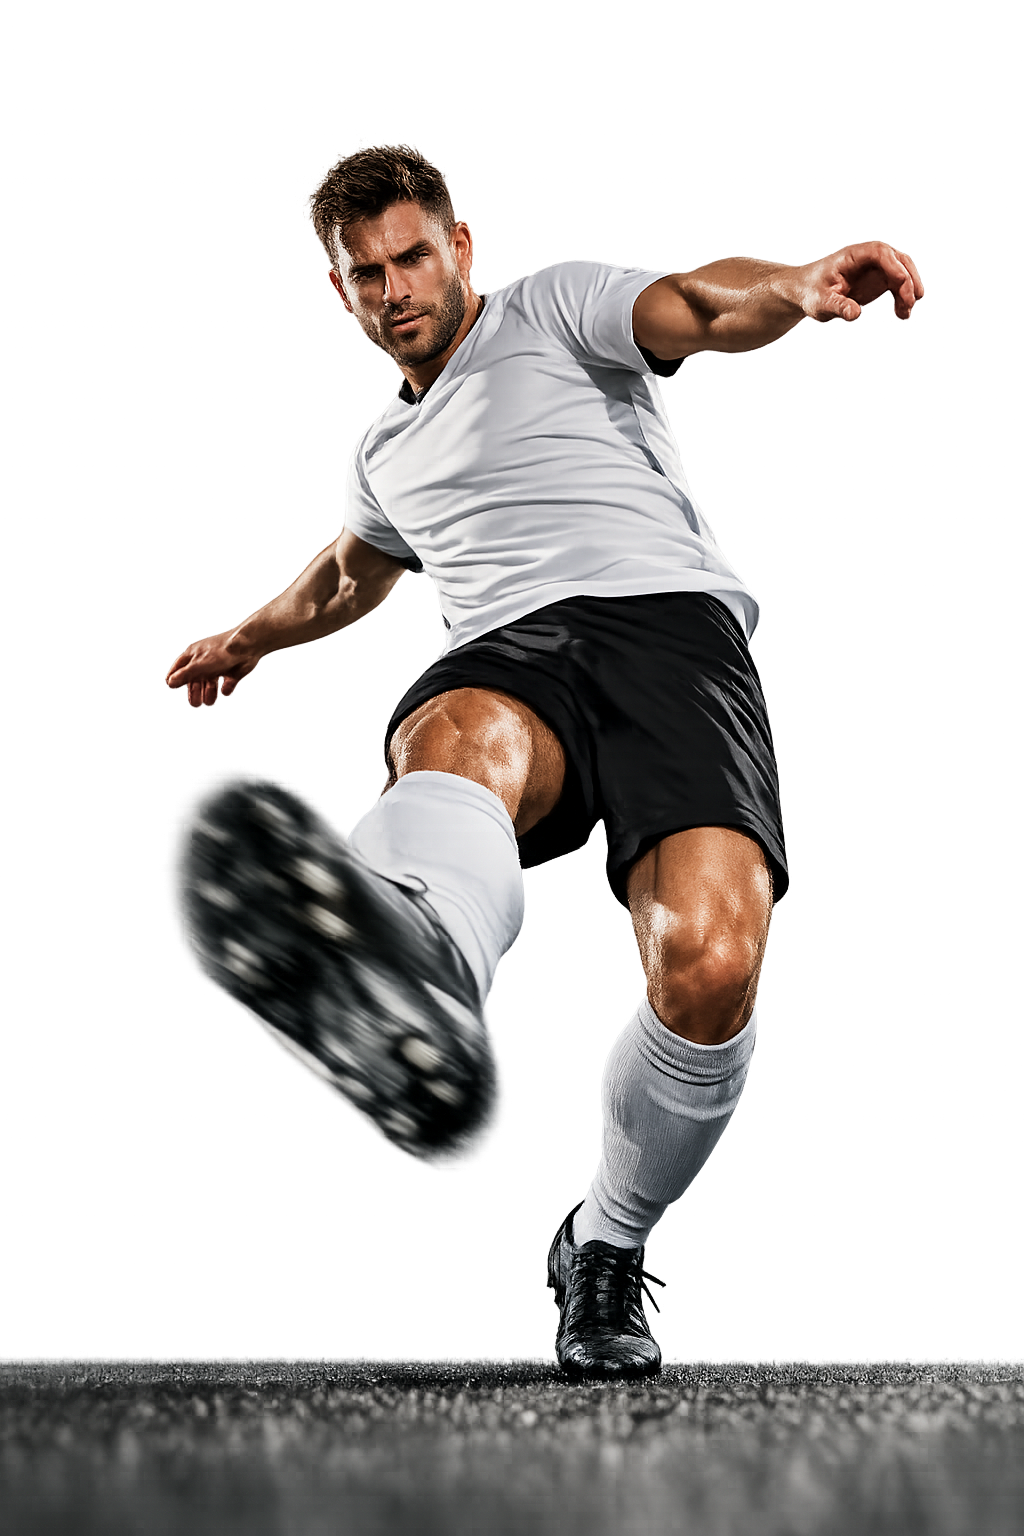
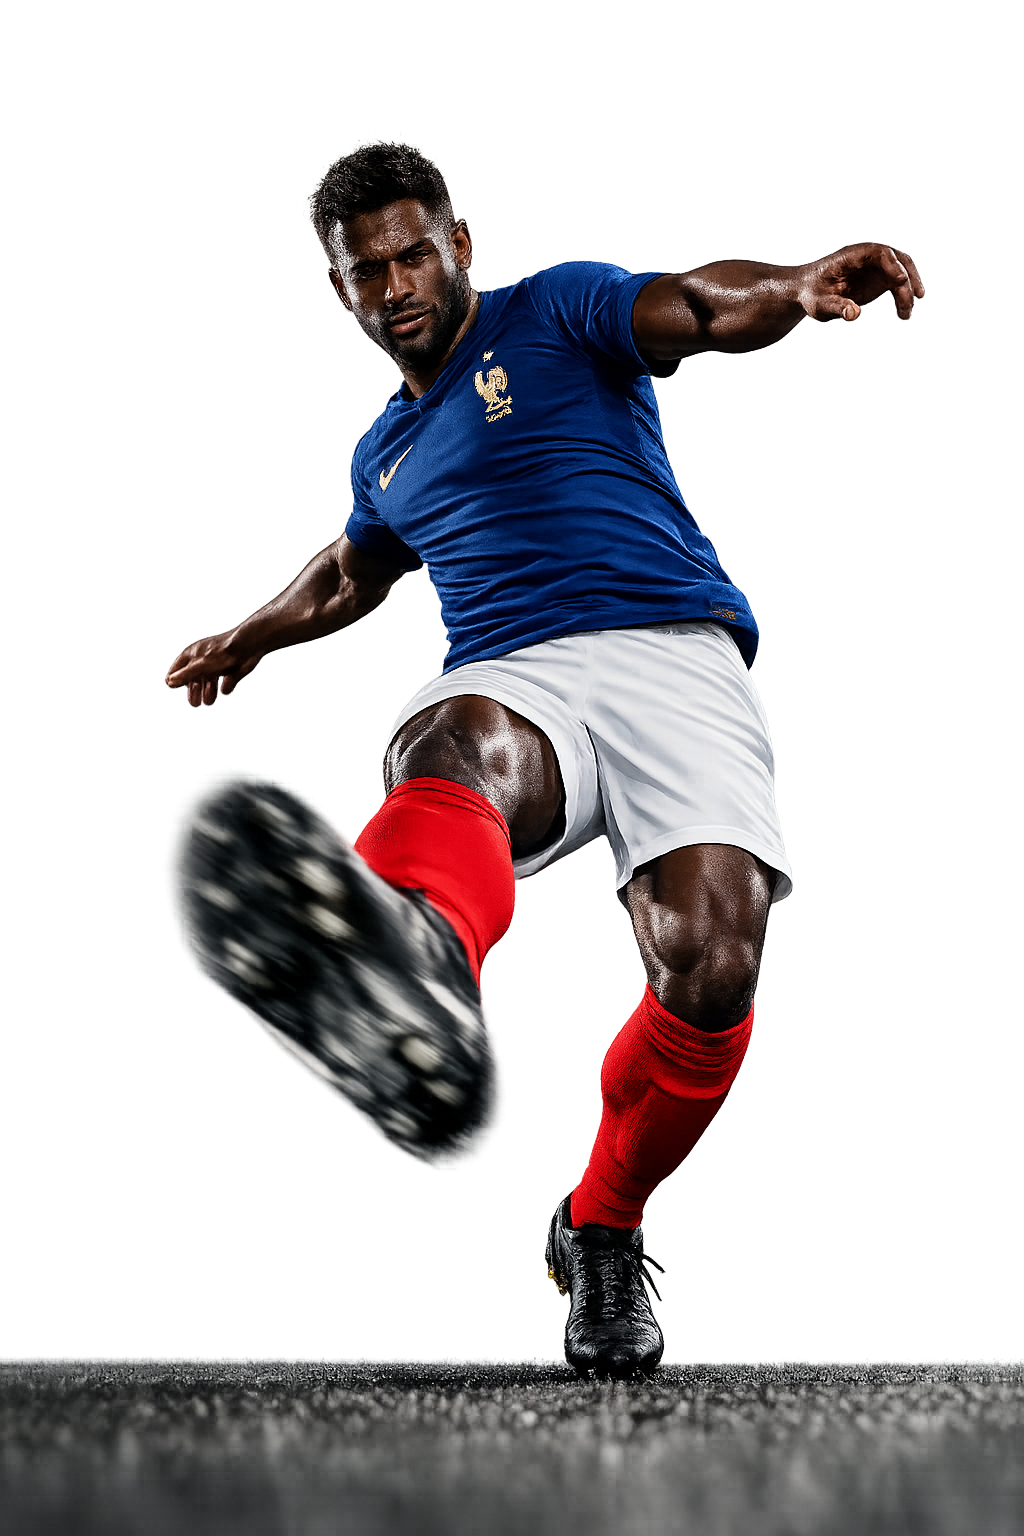
Swap in new striker photo + lifelike purple ball on the intro splash
- Replace the striker with the new France-kit player photo.
- Replace the vector ball with a photorealistic purple soccer ball image.
  Its source PNG baked transparency into a checkerboard, so the ball is
  clipped to its circle (rotation-invariant — still spins as it flies).

diff --git a/src/components/effects/IntroSplash.tsx b/src/components/effects/IntroSplash.tsx
@@ -44,6 +44,9 @@ export function IntroSplash() {
           transform-origin:50% 100%;animation:wciStriker 3s cubic-bezier(.2,.7,.3,1) forwards;
           -webkit-user-drag:none;user-select:none;}
         .wci-ball{position:absolute;left:50%;top:50%;width:15vmin;height:15vmin;will-change:transform,opacity;
+          /* the source PNG baked its transparency into a checkerboard, so clip to
+             the ball's circle (rotation-invariant, so it still spins) */
+          clip-path:circle(39% at 50% 50%);
           animation:wciBall 3s cubic-bezier(.5,.02,.6,1) forwards;
           filter:drop-shadow(0 0 28px rgba(86,25,143,.5));}
         .wci-flash{position:absolute;inset:0;opacity:0;
@@ -75,25 +78,8 @@ export function IntroSplash() {
       <img className="wci-striker" src="/intro/striker.png" alt="" aria-hidden="true" decoding="async" />
 
       {/* Purple ball off the boot, straight at the camera */}
-      <svg className="wci-ball" viewBox="0 0 100 100" aria-hidden="true">
-        <defs>
-          <radialGradient id="wciBallG" cx="38%" cy="34%" r="72%">
-            <stop offset="0%" stopColor="#cda6ff" />
-            <stop offset="44%" stopColor="#9d3df0" />
-            <stop offset="100%" stopColor="#56198f" />
-          </radialGradient>
-        </defs>
-        <circle cx="50" cy="50" r="48" fill="url(#wciBallG)" stroke="#34115e" strokeWidth="2" />
-        <polygon points="50,29 65,40 59,58 41,58 35,40" fill="#280d49" />
-        <g stroke="#280d49" strokeWidth="2.6" fill="none" strokeLinejoin="round">
-          <path d="M50 29 L50 10" />
-          <path d="M65 40 L84 33" />
-          <path d="M59 58 L71 74" />
-          <path d="M41 58 L29 74" />
-          <path d="M35 40 L16 33" />
-        </g>
-        <ellipse cx="37" cy="33" rx="12" ry="8" fill="#ffffff" opacity="0.22" />
-      </svg>
+      {/* eslint-disable-next-line @next/next/no-img-element */}
+      <img className="wci-ball" src="/intro/ball.png" alt="" aria-hidden="true" decoding="async" />
 
       <div className="wci-flash" />
       <div className="wci-skip">tap to skip ›</div>